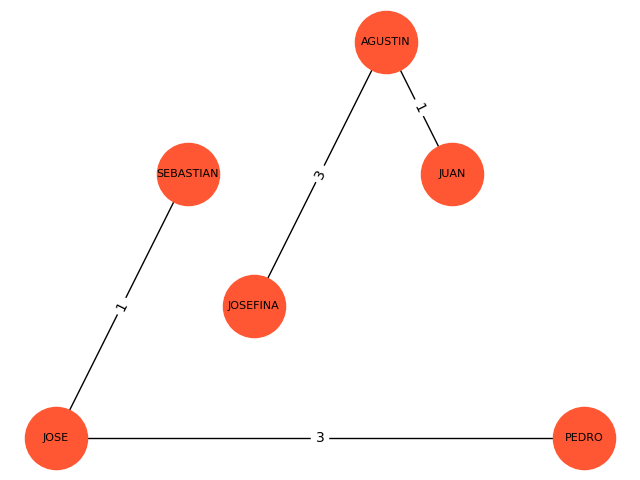
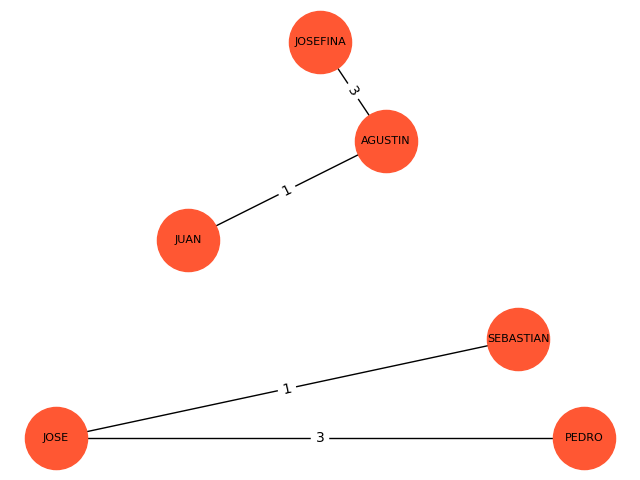
limpiamosgraficar distancia minima

diff --git a/Grafos.py b/Grafos.py
@@ -1,6 +1,5 @@
 from itertools import pairwise
 from tkinter import messagebox
-
 import networkx as nx
 from matplotlib import pyplot as plt
 
@@ -46,15 +45,6 @@ class Grafos:
             labels2 = nx.get_edge_attributes(subgrafo, 'weight')
             nx.draw(subgrafo, layout, with_labels=True, node_color='#FF5733', node_size=3000, font_size=10)
             nx.draw_networkx_edge_labels(subgrafo, layout, edge_labels=labels2)
-            plt.savefig('relacion.png')
-            plt.close()
-        elif  self.g.has_node(alu1Mayus) and  self.g.has_node(alu2Mayus) and not nx.has_path(self.g, alu1Mayus, alu2Mayus):
-            grafoAux = self.g.copy()
-            grafoAux.clear()
-            layout = nx.planar_layout(grafoAux)
-            labels2 = nx.get_edge_attributes(grafoAux, 'weight')
-            nx.draw(grafoAux, layout, with_labels=True, node_color='#FF5733', node_size=3000, font_size=10)
-            nx.draw_networkx_edge_labels(grafoAux, layout, edge_labels=labels2)
             plt.savefig('relacion.png')
             plt.close()
         else:

diff --git a/Alumno.py b/Alumno.py
@@ -5,3 +5,4 @@ class Alumno:
 
     def agregar(self, dato):
         self.lista.append(dato)
+
